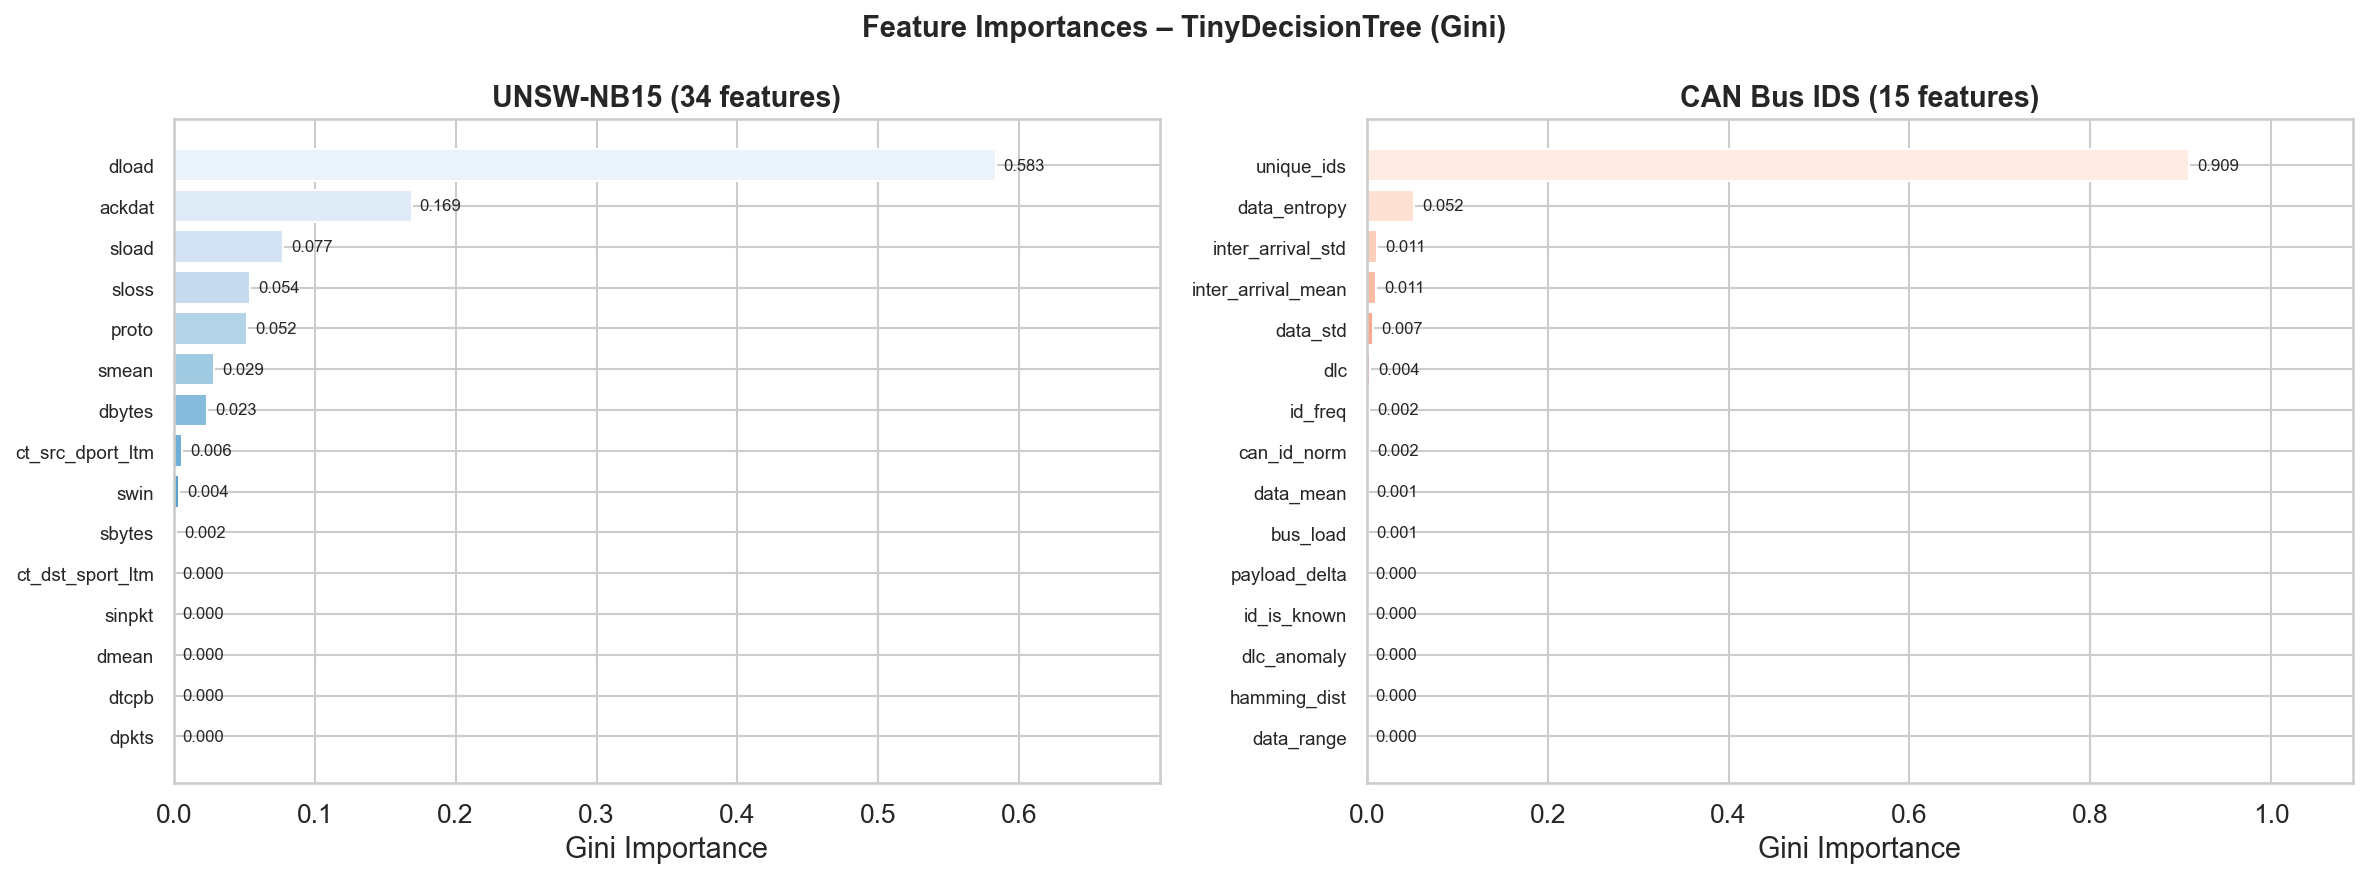
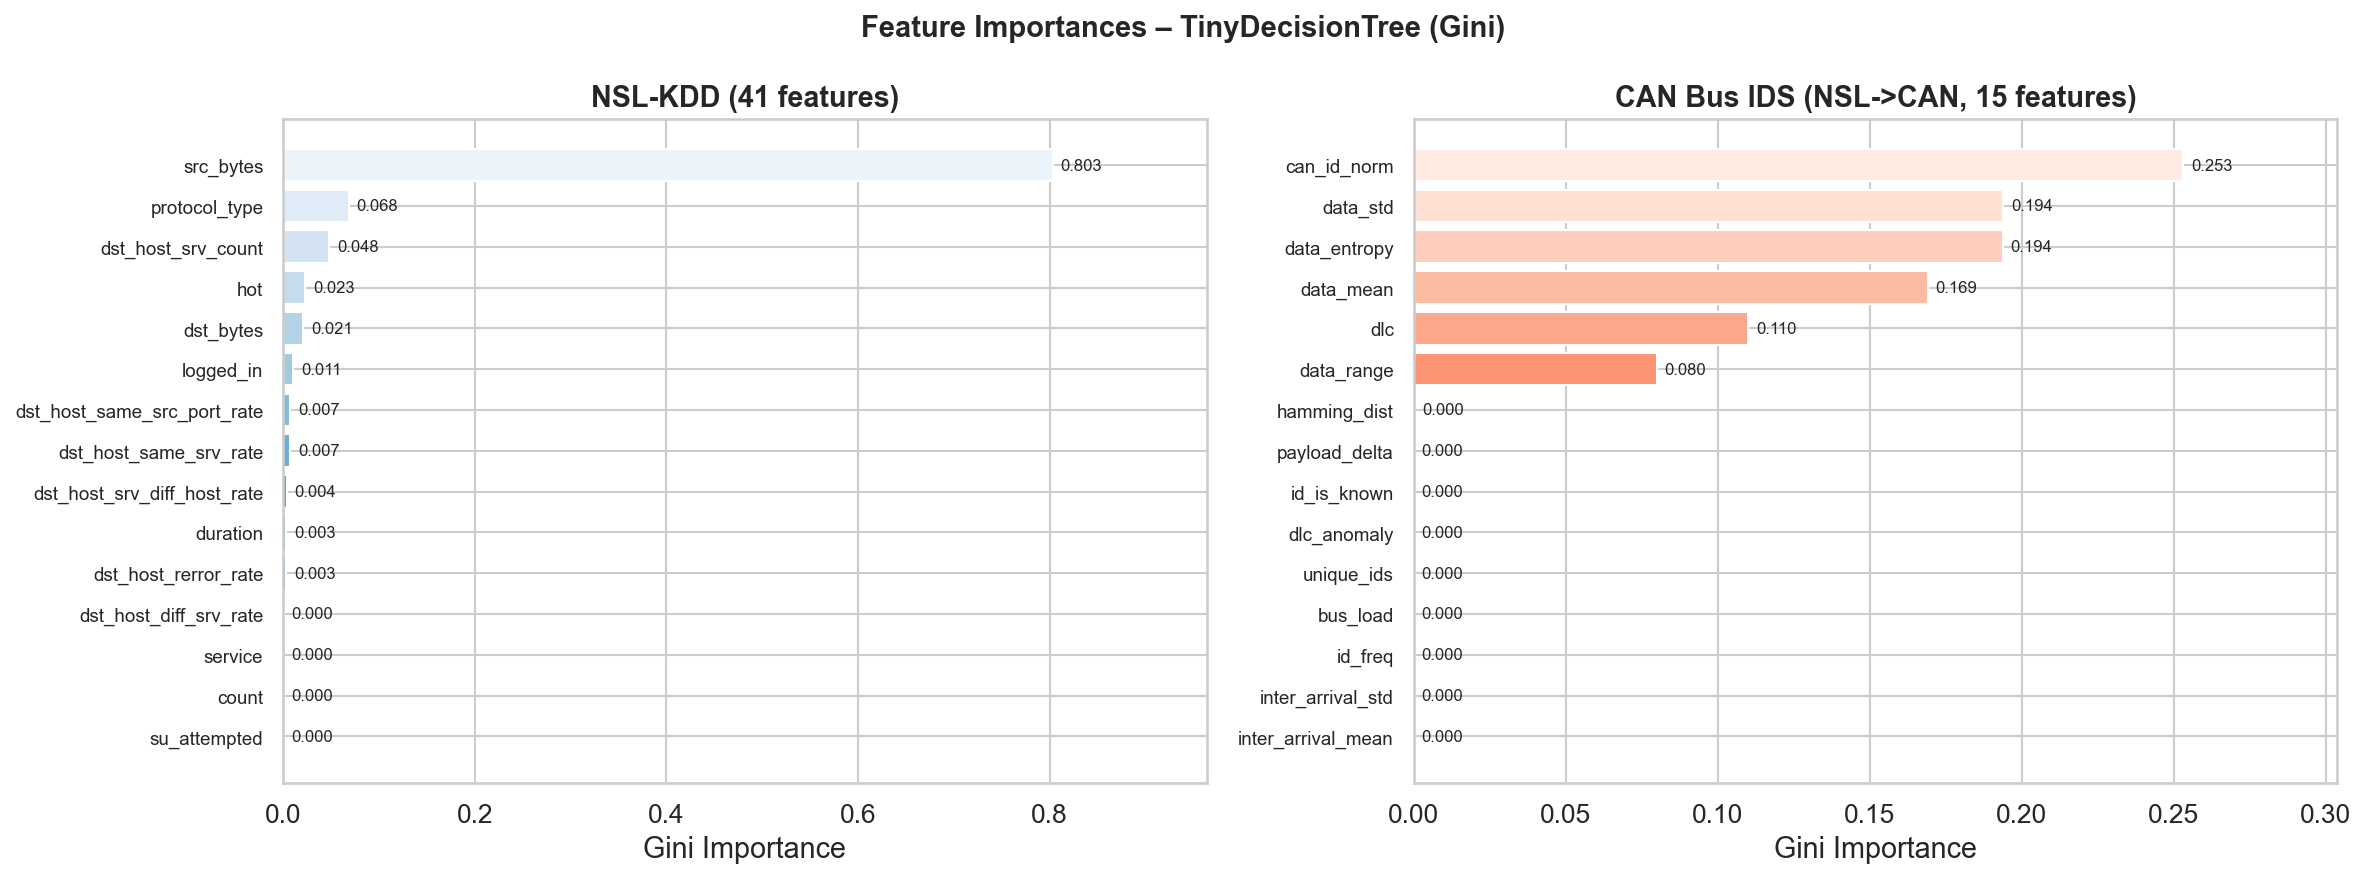
Fixed pathing

diff --git a/intrusion_detection/scripts/generate_plots.py b/intrusion_detection/scripts/generate_plots.py
@@ -6,11 +6,13 @@ Comprehensive visualization suite for the Satellite Intrusion Detection System p
 
 Generates the following figures into results/plots/:
   01_model_comparison.png         - Phase 1: All 5 models across 4 metrics
-  02_tree_structure_phase2.png    - Decision tree structure (UNSW-NB15)
-  03_tree_structure_can.png       - Decision tree structure (CAN Bus)
+    02_tree_structure_phase2.png    - Decision tree structure (NSL-KDD)
+    03_tree_structure_can.png       - Decision tree structure (NSL->CAN)
   04_confusion_matrices.png       - Confusion matrices for Phase 2, 2b, 4
   05_threshold_sweep.png          - Precision / Recall / F1 vs threshold
-  06_quantization_tradeoffs.png   - Float32 vs Int16 vs Int8 comparison
+    06a_quantization_metrics.png    - Float32 vs Int16 vs Int8 metrics
+    06b_quantization_size.png       - Model size by quantization
+    06c_quantization_latency.png    - Inference latency by quantization
     07_benchmark_can_comparison.png - UNSW->CAN vs NSL->CAN overall comparison
   08_cross_dataset_heatmap.png    - Performance heatmap across datasets
   09_feature_importance.png       - Feature importances (Phase 2 + CAN)
@@ -64,9 +66,9 @@ MODEL_COLORS = {
     'TinyXGBoost':       PURPLE,
 }
 
-def save(fig, name):
+def save(fig, name, dpi=150):
     path = PLOTS / name
-    fig.savefig(path, dpi=150, bbox_inches='tight')
+    fig.savefig(path, dpi=dpi, bbox_inches='tight')
     plt.close(fig)
     print(f"  Saved {path.name}")
 
@@ -125,7 +127,7 @@ def plot_model_comparison():
 # ══════════════════════════════════════════════════════════════════════════════
 # Fig 02 & 03 — Decision Tree Structures
 # ══════════════════════════════════════════════════════════════════════════════
-def plot_tree_structure(model_path, feature_names, title, out_name, figsize=(22, 10)):
+def plot_tree_structure(model_path, feature_names, title, out_name, figsize=(36, 18), fontsize=10):
     clf = joblib.load(model_path)
 
     fig, ax = plt.subplots(figsize=figsize)
@@ -135,29 +137,32 @@ def plot_tree_structure(model_path, feature_names, title, out_name, figsize=(22,
         class_names=['Normal', 'Attack'],
         filled=True,
         rounded=True,
-        fontsize=8,
+        fontsize=fontsize,
         ax=ax,
-        impurity=True,
-        proportion=False,
-        precision=3,
+        impurity=False,
+        proportion=True,
+        precision=2,
     )
+    # Paper-oriented layout: generous canvas and margins for readable leaf labels.
+    fig.subplots_adjust(left=0.02, right=0.98, top=0.92, bottom=0.04)
     ax.set_title(title, fontsize=14, fontweight='bold', pad=12)
-    save(fig, out_name)
+    save(fig, out_name, dpi=320)
 
 
 def plot_trees():
-    # Phase 2 – UNSW-NB15
-    with open(MODELS / 'phase2_feature_names.json') as f:
+    # Phase 2B – NSL-KDD
+    with open(MODELS / 'phase2b_feature_names.json') as f:
         feat2 = json.load(f)
     plot_tree_structure(
-        MODELS / 'phase2_decision_tree.joblib',
+        MODELS / 'phase2b_decision_tree.joblib',
         feat2,
-        'TinyDecisionTree – UNSW-NB15 Network IDS (depth=5, 26 leaves)',
+        'TinyDecisionTree - NSL-KDD Network IDS',
         '02_tree_structure_phase2.png',
-        figsize=(24, 11),
+        figsize=(40, 20),
+        fontsize=10,
     )
 
-    # Phase 4B – CAN from benchmark (prefer NSL model if available)
+    # Phase 4B – CAN from benchmark (NSL->CAN)
     model_path = MODELS / 'phase4b_nsl_can_decision_tree.joblib'
     feat_path = MODELS / 'phase4b_nsl_can_feature_names.json'
     if not model_path.exists() or not feat_path.exists():
@@ -169,9 +174,10 @@ def plot_trees():
     plot_tree_structure(
         model_path,
         feat_can,
-        'TinyDecisionTree – Satellite CAN IDS (benchmark-to-CAN)',
+        'TinyDecisionTree - Satellite CAN Bus IDS (NSL->CAN)',
         '03_tree_structure_can.png',
-        figsize=(22, 11),
+        figsize=(36, 16),
+        fontsize=10,
     )
 
 
@@ -270,15 +276,13 @@ def plot_quantization():
     size = [q[p]['size_kb']           for p in precisions]
     inf  = [q[p]['inference_us']      for p in precisions]
 
-    fig, axes = plt.subplots(1, 3, figsize=(15, 5))
-    fig.suptitle('Phase 3 – Quantization Trade-offs (UNSW-NB15)', fontsize=14, fontweight='bold')
-
     q_colors = ['#2196F3', '#FF9800', '#F44336']
 
-    # Panel 1: Grouped metric bars
+    # 6a: Grouped metric bars
     x = np.arange(len(precisions))
     w = 0.2
-    ax = axes[0]
+    fig, ax = plt.subplots(figsize=(8, 5))
+    fig.suptitle('Phase 3 - Quantization Metrics (NSL-KDD)', fontsize=13, fontweight='bold')
     ax.bar(x - 1.5*w, acc, w, label='Accuracy',  color='#3498db')
     ax.bar(x - 0.5*w, rec, w, label='Recall',    color='#e74c3c')
     ax.bar(x + 0.5*w, f1v, w, label='F1',        color='#2ecc71')
@@ -292,23 +296,30 @@ def plot_quantization():
     for i, (a, r, f, fp_) in enumerate(zip(acc, rec, f1v, fpr)):
         for j, (v, offset) in enumerate(zip([a, r, f, fp_], [-1.5, -0.5, 0.5, 1.5])):
             ax.text(i + offset*w, v + 1, f'{v:.0f}', ha='center', fontsize=7)
-
-    # Panel 2: Model size
-    axes[1].bar([p.upper() for p in precisions], size, color=q_colors, edgecolor='white')
-    axes[1].set_ylabel('Size (KB)')
-    axes[1].set_title('Model Size', fontweight='bold')
-    for i, v in enumerate(size):
-        axes[1].text(i, v + 0.01, f'{v:.3f} KB', ha='center', fontsize=10, fontweight='bold')
-
-    # Panel 3: Inference time
-    axes[2].bar([p.upper() for p in precisions], inf, color=q_colors, edgecolor='white')
-    axes[2].set_ylabel('Inference Time (µs)')
-    axes[2].set_title('Inference Latency', fontweight='bold')
-    for i, v in enumerate(inf):
-        axes[2].text(i, v + 0.05, f'{v:.2f} µs', ha='center', fontsize=10, fontweight='bold')
-
     fig.tight_layout()
-    save(fig, '06_quantization_tradeoffs.png')
+    save(fig, '06a_quantization_metrics.png')
+
+    # 6b: Model size
+    fig, ax = plt.subplots(figsize=(6.5, 5))
+    fig.suptitle('Phase 3 - Quantization Size (NSL-KDD)', fontsize=13, fontweight='bold')
+    ax.bar([p.upper() for p in precisions], size, color=q_colors, edgecolor='white')
+    ax.set_ylabel('Size (KB)')
+    ax.set_title('Model Size', fontweight='bold')
+    for i, v in enumerate(size):
+        ax.text(i, v + 0.01, f'{v:.3f} KB', ha='center', fontsize=10, fontweight='bold')
+    fig.tight_layout()
+    save(fig, '06b_quantization_size.png')
+
+    # 6c: Inference time
+    fig, ax = plt.subplots(figsize=(6.5, 5))
+    fig.suptitle('Phase 3 - Quantization Latency (NSL-KDD)', fontsize=13, fontweight='bold')
+    ax.bar([p.upper() for p in precisions], inf, color=q_colors, edgecolor='white')
+    ax.set_ylabel('Inference Time (µs)')
+    ax.set_title('Inference Latency', fontweight='bold')
+    for i, v in enumerate(inf):
+        ax.text(i, v + 0.05, f'{v:.2f} µs', ha='center', fontsize=10, fontweight='bold')
+    fig.tight_layout()
+    save(fig, '06c_quantization_latency.png')
 
 
 # ══════════════════════════════════════════════════════════════════════════════
@@ -438,10 +449,10 @@ def plot_feature_importances():
     fig.suptitle('Feature Importances – TinyDecisionTree (Gini)', fontsize=14, fontweight='bold')
 
     configs = [
-        (MODELS / 'phase2_decision_tree.joblib', MODELS / 'phase2_feature_names.json',
-         'UNSW-NB15 (34 features)', axes[0], '#3498db'),
-        (MODELS / 'can_decision_tree.joblib',    MODELS / 'can_feature_names.json',
-         'CAN Bus IDS (15 features)', axes[1], '#e74c3c'),
+           (MODELS / 'phase2b_decision_tree.joblib', MODELS / 'phase2b_feature_names.json',
+            'NSL-KDD (41 features)', axes[0], '#3498db'),
+           (MODELS / 'phase4b_nsl_can_decision_tree.joblib', MODELS / 'phase4b_nsl_can_feature_names.json',
+            'CAN Bus IDS (NSL->CAN, 15 features)', axes[1], '#e74c3c'),
     ]
 
     for model_path, feat_path, title, ax, color in configs:

diff --git a/intrusion_detection/scripts/host_inference_runner.py b/intrusion_detection/scripts/host_inference_runner.py
@@ -41,7 +41,7 @@ from sklearn.metrics import (
 
 MODELS_DIR  = Path('models/trained_models')
 RESULTS_DIR = Path('results')
-DATASET_DIR = Path('datasets/CAN_SATELLITE')
+DATASET_DIR = Path('datasets/CAN_FROM_BENCHMARK')
 RESULTS_DIR.mkdir(exist_ok=True)
 
 FEATURE_NAMES = [
@@ -587,22 +587,22 @@ if __name__ == '__main__':
                         help='Simulate MCU using the sklearn model (no hardware needed)')
     parser.add_argument(
         '--features-csv',
-        default=str(DATASET_DIR / 'can_test_features.csv'),
+        default=str(DATASET_DIR / 'nsl_can_test_features.csv'),
         help='Feature CSV with columns: FEATURE_NAMES + label',
     )
     parser.add_argument(
         '--attack-source-csv',
-        default=str(DATASET_DIR / 'satellite_can_test.csv'),
+        default=str(DATASET_DIR / 'nsl_can_test.csv'),
         help='Raw CAN CSV containing attack_type column for per-attack metrics',
     )
     parser.add_argument(
         '--model-path',
-        default=str(MODELS_DIR / 'can_decision_tree.joblib'),
+        default=str(MODELS_DIR / 'phase4b_nsl_can_decision_tree.joblib'),
         help='Model path used by --dry-run simulator',
     )
     parser.add_argument(
         '--scaler-path',
-        default=str(MODELS_DIR / 'can_scaler.joblib'),
+        default=str(MODELS_DIR / 'phase4b_nsl_can_scaler.joblib'),
         help='Scaler path used by --dry-run simulator',
     )
     parser.add_argument(

diff --git a/intrusion_detection/INTRUSION_DETECTION_REPORT.md b/intrusion_detection/INTRUSION_DETECTION_REPORT.md
@@ -1,3 +1,17 @@
+# To Run Inference:
+
+```
+source .venv/bin/activate
+python intrusion_detection/scripts/host_inference_runner.py \
+  --port /dev/tty.usbmodemXXXX \
+  --features-csv intrusion_detection/datasets/CAN_FROM_BENCHMARK/nsl_can_test_features.csv \
+  --attack-source-csv intrusion_detection/datasets/CAN_FROM_BENCHMARK/nsl_can_test.csv \
+  --model-path intrusion_detection/models/trained_models/phase4b_nsl_can_decision_tree.joblib \
+  --scaler-path intrusion_detection/models/trained_models/phase4b_nsl_can_scaler.joblib \
+  --output-prefix nsl_can_eval_sat
+```
+
+
 # Lightweight Intrusion Detection System for Embedded Satellites
 ## Research & Testing Report
 
